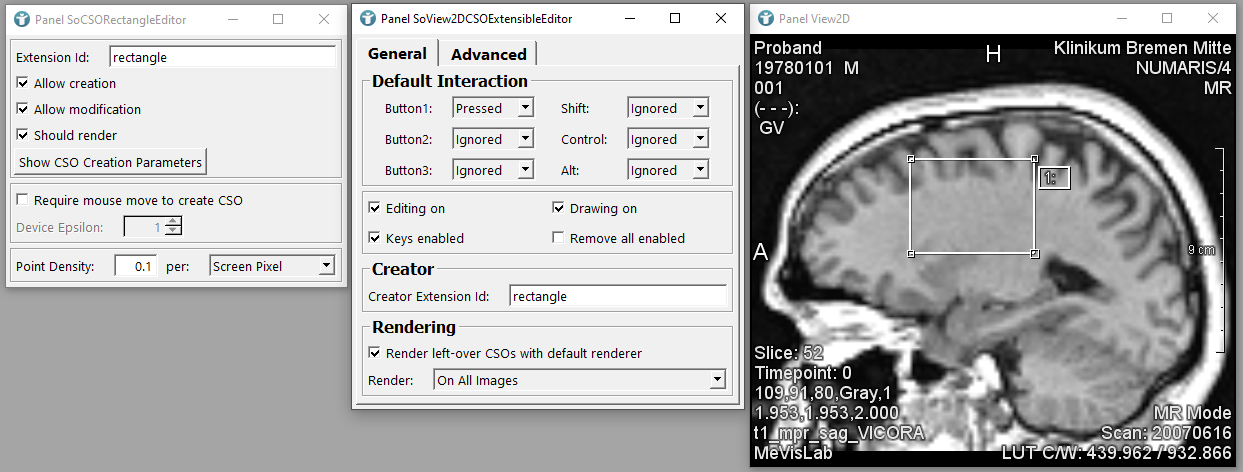
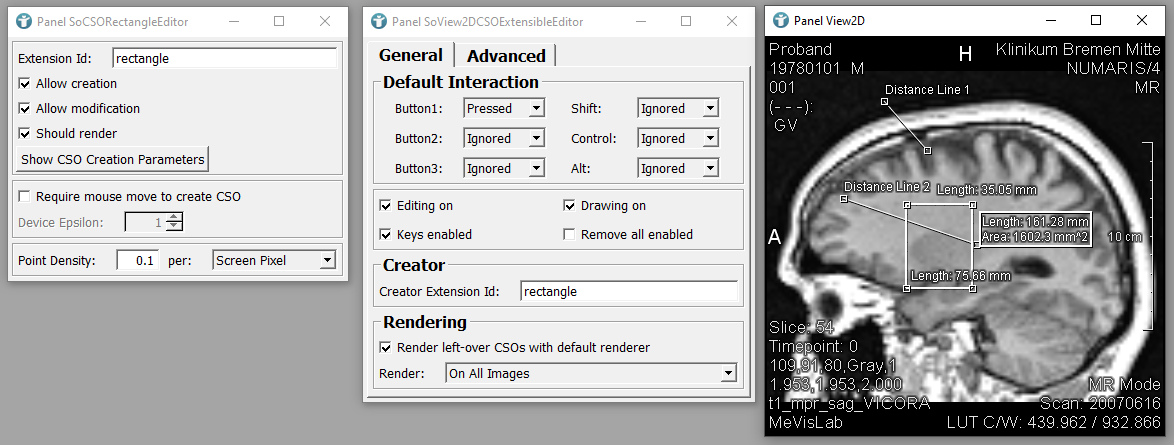
Added new tutorial and new entry to tips and tricks

diff --git a/mevislab.github.io/themes/MeVisLab/layouts/partials/head.html b/mevislab.github.io/themes/MeVisLab/layouts/partials/head.html
@@ -8,11 +8,11 @@
     <meta name="theme-color" content="#1A94D2" />
 
     <base href="{{ .Site.BaseURL }}">
-    
-    {{ $options := (dict "targetPath" "css/styles.css" "outputStyle" "compressed") }}
 
-    {{ $style := resources.Get "sass/main.scss" | toCSS  $options | minify }}
-    <link rel="stylesheet" href="{{ $style.RelPermalink }}" media="screen">
+    {{ $opts := dict "transpiler" "libsass" "targetPath" "examples/css/style.css" "outputStyle" "compressed" }}
+    {{ with resources.Get "sass/main.scss" | toCSS $opts | minify | fingerprint }}
+    <link rel="stylesheet" href="{{ .Permalink }}" integrity="{{ .Data.Integrity }}" crossorigin="anonymous">
+    {{ end }}
  
     <!-- 
         include a favicon for your site if you have it, else omit the line below 

diff --git a/mevislab.github.io/themes/MeVisLab/layouts/partials/footer.html b/mevislab.github.io/themes/MeVisLab/layouts/partials/footer.html
@@ -9,7 +9,7 @@
   {{ $bootstrap := resources.Get "js/bootstrap.bundle.min.js" }}
   {{ $js := slice $bootstrap | resources.Concat "js/bundle.js" | resources.Minify }}
 
-  <script src="{{$js.RelPermalink}}" defer></script>
+  <script src="{{$js.Permalink}}" defer></script>
   <script>
       hljs.highlightAll();
       

diff --git a/mevislab.github.io/content/tutorials/dataobjects/contours/contourexample6.md b/mevislab.github.io/content/tutorials/dataobjects/contours/contourexample6.md
@@ -16,112 +16,216 @@ menu:
 
 ## Introduction
 
-In this example, we like to add a label to a contour. The label provides information about measurements and about the contour itself. The label remains connected to the contour and can be moved via mouse interactions.
+In this example, we are adding a label to a contour. The label provides information about measurements and about the contour itself. The label remains connected to the contour and can be moved via mouse interactions.
 
 ## Steps to do
 ### Develop your network
 
-Add the following modules to your workspace and connect them as shown. Load the example DICOM image *ProbandT1.dcm*.
+Add a `LocalImage` and a `View2D` module to your workspace and connect them as shown below. Load the file *ProbandT1.dcm* from MeVisLab demo data. In order to create contours (CSOs), we need a `SoView2DCSOExtensibleEditor` module. It manages attached CSO editors, renderers and offers an optional default renderer for all types of CSOs.
 
-![Data Objects Contours Example 6](/images/tutorials/dataobjects/contours/Ex6_1.png "Data Objects Contours Example 6")
+The first CSO we want to create is a distance line. Add a `SoCSODistanceLineEditor` to the `SoView2DCSOExtensibleEditor`. It renders and interactively generates CSOs that consist of a single line segment. The line segment can be rendered as an arrow; it can be used to measure distances.
 
-The `SoView2DCSOExtensibleEditor` manages attached CSO editors and renderers and offers an optional default renderer for all types of CSOs.
+We are going to add some more editors later. In order to have the same look and feel for all types of CSOs, add a `SoCSOVisualizationSettings` module as seen below. The module is used to adjust visual parameters like color and line style for CSOs. Also add a `CSOManager` module to organize CSOs and CSOGroups within a network.
 
-The `SoCSODistanceLineEditor` renders and interactively generates CSOs that consist of a single line segment. The line segment can be rendered as an arrow; it can be used to measure distances.
+![Initial Network](/images/tutorials/dataobjects/contours/Ex6_1.png "Initial Network")
 
-The `SoCSOVisualizationSettings` module is used to adjust visual parameters like color and line style for CSOs, while the `CSOManager` module organizes CSOs and CSOGroups within a network.
+We are now able to create lines in the `View2D`. You can also modify the lines by dragging the seed points to a different location.
 
-By using these modules, we can effectively work with CSOs in our workspace, allowing us to draw single lines, for example, to measure distances on images.
+![SoCSODistanceLineEditor](/images/tutorials/dataobjects/contours/Ex6_2.png "SoCSODistanceLineEditor")
 
-![DistanceLine](/images/tutorials/dataobjects/contours/Ex6_2.png "DistanceLine")
+The created lines do neither provide any details about the length of your measurement, nor a unique ID to identify it in case of multiple CSOs.
 
-Next, we want to add a label to the distance line showing the distance between the two points of our measurement. To achieve this, we'll use the `CSOLabelRenderer` module. Begin by adding a `SoGroup` and connecting both the `CSOLabelRenderer` and the `SoCSODistanceLineEditor` to the `SoGroup`. After moving the label with mouse, the *name* will appear above the line as illustrated below. 
-
-Adding the CSOLabelRenderer, the ID of the CSO is shown next to the measurement for all previously created CSOs. All newly created CSOs will also show the ID
+Add a `CSOLabelRenderer` module to your network and connect it to a `SoGroup`. Also connect your `SoCSODistanceLineEditor` to the `SoGroup` as seen below. The *ID* of each CSO appears next to your distance lines. Moving the ID also shows the *name* of the contour.
 
 ![CSOLabelRenderer](/images/tutorials/dataobjects/contours/Ex6_14.png "CSOLabelRenderer")
 
-The `CSOLabelRenderer` module is responsible for rendering labels for CSOs in the medical imaging context. These labels can be configured using Python scripting.
+We now want to customize the details to be shown for each distance line. Open the panel of the `CSOLabelRenderer`. You can see the two parameters *labelString* and *labelName*. The *labelString* is set to the *ID* of the CSO. The *labelName* is set to a static text and the *label* property of the CSO. The label can be defined in the module `CSOManager`. You can do this, but we are not defining a name for each contour in this example.
 
-To ensure synchronization between modules and specify the active editor for creating *distanceLine* CSOs, we need to set the same *Extension Id* in both the `SoCSODistanceLineEditor` and `SoView2DCSOExtensibleEditor` modules. In the `SoView2DCSOExtensibleEditor` module, navigate to the *General* tab and locate the *Creator Extension Id* field. Here, input the same *Extension Id* used in the `SoCSODistanceLineEditor` module. This ensures proper coordination and enables the creation of new *distanceline* CSOs using the designated editor.
-
-![Setting Extension Id in SoView2DCSOExtensibleEditor](/images/tutorials/dataobjects/contours/Example6_5.png "Setting Extension Id in SoView2DCSOExtensibleEditor")
-
-When connected to a `SoView2DCSOExtensibleEditor`, the `CSOLabelRenderer` module allows access to the currently rendered CSO. Python scripting is used to configure the labels and to define the properties of the label displayed for each CSO in the viewer. *labelString* is set to the unique ID of each CSO, while *labelName* combines the word *name* with the label assigned to the CSO. *deviceOffsetX* and *deviceOffsetY* determine the label's position relative to the CSO, both set to 0 for direct overlay. The labeling displaying the number 1 represent a default label because no specific name is provided for the CSO.
-
-Replace the default *Label Code* with the following script:
-
-{{< highlight filename="" >}}
+Enter the following to the panel of the `CSOLabelRenderer` module:
+{{< highlight filename="CSOLabelRenderer" >}}
 ```Python
-if cso.getSubType() == 'distanceLine':
-    labelString = 'Length: ' + str(cso.getLength())
-    labelName = 'Distance '
-else:
-    labelString = ''
-    labelName = ''
+labelString = 'Length: ' + str(cso.getLength())
+labelName = 'Distance: '
 labelName += str(cso.getId())
-labelCaption = labelName + ":  "
-
+deviceOffsetX = 0
+deviceOffsetY = 0
 ```
 {{</highlight>}}
 
-This script will ensure that the label displays the length of the line for *distanceLine* CSOs and remains empty for other CSO types.
+We are setting the *labelName* to a static text showing the type of the CSO and the unique *ID* of the contour. We also define the *labelString* to the static description of the measurement and the *length* parameter of the CSO.
 
-![Labeled DistanceLine in View2D](/images/tutorials/dataobjects/contours/Ex6_11.png "Labeled DistanceLine in View2D")
+![labelString and labelName](/images/tutorials/dataobjects/contours/Example6_5.png "labelString and labelName")
 
-In the `CSOLabelRenderer` panel, head to the *Options* tab. Here, you can fine-tune various settings to enhance the appearance of CSO labels. Set the *Label Border Margin X* to *5* to create a margin around selected CSOs. Increase the *Font Size* to *15* for larger and more readable text. Additionally, adjust the *Min Connecting Line Length* to *15* to specify a minimum distance for drawing connecting lines, maintaining a clean and organized layout. 
+You can also round the length by using:
+{{< highlight filename="CSOLabelRenderer" >}}
+```Python
+labelString = 'Length: ' + str(round(cso.getLength(), 2)) + ' mm'
+```
+{{</highlight>}}
 
-![CSOLabelRendering Options](/images/tutorials/dataobjects/contours/Ex6_6.png "CSOLabelRendering Options")
+In order to see all possible parameters of a CSO, add a `CSOInfo` module to your network and connect it to the `CSOManager`. The geometric informations of the selected CSO from `CSOManager` can be seen there.
 
-Now, let's proceed with another type of CSO and follow similar steps. Add the `SoCSORectangleEditor` module to your workspace and connect it to the `SoGroup` module.
+![CSOInfo](/images/tutorials/dataobjects/contours/Ex6_CSOInfo.png "CSOInfo")
 
-![SoCSORectangleEditor](/images/tutorials/dataobjects/contours/Ex6_7.png "SoCSORectangleEditor")
+For labels shown on greyscale images, it makes sense to add a shadow to your labels. Open the panel of the `SoCSOVisualizationSettings` module and on tab *Misc* check option *Should render shadow*. This increases readability of your labels.
 
-Ensure to update the *Creator Extension Id* field in the `SoView2DCSOExtensibleEditor` module with the *Extension Id* of the `SoCSORectangleEditor` module.
+{{< imagegallery 2 "/images/tutorials/dataobjects/contours/" "Ex6_NoShadow" "Ex6_Shadow" >}}
+
+If you want to define your static text as a parameter in multiple labels, you can open the panel of the `CSOLabelRenderer` module and define text as User Data. The values can then be used in Python via *userData*.
+
+![User Data](/images/tutorials/dataobjects/contours/Ex6_Parameters.png "User Data")
+
+You can also add multiple CSO editors to see the different options. Add the `SoCSORectangleEditor` module to your workspace and connect it to the `SoGroup` module. As we now have two different editors, we need to tell the `CSOLabelRenderer` which CSO to be rendered how. Open the panel of the `SoCSODistanceLineEditor`. You can see the field *Extension Id* set to *distanceLine*. Open the panel of the `SoCSORectangleEditor`. You can see the field *Extension Id* set to *rectangle*.
+
+![Extension ID](/images/tutorials/dataobjects/contours/Ex6_ExtensionID.png "Extension ID")
+
+We currently defined the *labelName* and *labelString* for the distance line. If we want to define different labels for different types of CSOs, we have to change the `CSOLabelRenderer` Python script. Open the panel of the `CSOLabelRenderer` and change the Python code to the following:
+
+{{< highlight filename="CSOLabelRenderer" >}}
+```Python
+if cso.getSubType() == 'distanceLine':
+  labelString = userData0 + str(round(cso.getLength(), 2)) + ' mm'
+  labelName = userData1
+  labelName += str(cso.getId())
+elif cso.getSubType() == 'rectangle':
+  labelString = userData0 + str(round(cso.getLength(), 2)) + ' mm\n'
+  labelString += userData2 + str(round(cso.getArea(), 2)) + ' mm^2'
+  labelName = userData3
+  labelName += str(cso.getId())
+deviceOffsetX = 0
+deviceOffsetY = 0
+```
+{{</highlight>}}
+
+![SoCSORectangleEditor](/images/tutorials/dataobjects/contours/Ex6_LineAndRectangle.png "SoCSORectangleEditor")
+
+If you now draw new CSOs, you will notice that you still always create distance lines. Open the panel of the `SoView2DCSOExtensibleEditor`. You can see that the *Creator Extension Id* is set to *__default*. By default, the first found eligible editor is used to create a new CSO. In our case this is the `SoCSODistanceLineEditor`.
+
+![SoCSORectangleEditor](/images/tutorials/dataobjects/contours/Ex6_DefaultExtension.png "SoCSORectangleEditor")
+
+Change *Creator Extension Id* to *rectangle*.
 
 ![SoCSORectangleEditor & SoView2DCSOExtensibleEditor ](/images/tutorials/dataobjects/contours/Ex6_8.png "SoCSORectangleEditor & SoView2DCSOExtensibleEditor")
 
-Open the `CSOLabelRenderer` panel and add similar script as for the *distanceLine* subtype, but include *Area* calculation as well, since we are dealing with a rectangle.
-
-{{< highlight filename="" >}}
-```Python
-...
-elif cso.getSubType() == 'rectangle':
-    labelString = str('Length: ') + str(cso.getLength()) + '\n'
-    labelString += str('Area: ') + str(cso.getArea()) + '\n'
-    labelName = 'Rectangle '
-...
-```
-{{</highlight>}}
+Newly created CSOs are now rectangles. The label values are shown as defined in the `CSOLabelRenderer` and show the length and the area of the rectangle.
 
 ![Labeled Rectangle in View2D](/images/tutorials/dataobjects/contours/Ex6_9.png "Labeled Rectangle in View2D")
 
 {{<alert class="info" caption="Extra Infos">}}
-
 The *Length* attribute in the context of rectangles represents the perimeter of the rectangle, calculated as *2a + 2b*, where *a* and *b* are the lengths of the two sides of the rectangle.
-
 {{</alert>}}
 
-Connect the `CSOInfo` module to the `CSOManager` module in your network. Then, navigate to the *Geometry* tab to access detailed information about the width (*PCA X EXT*) and height (*PCA Y EXT*) of the rectangles. 
+You will find a lot more information in the `CSOInfo` module for your rectangles. The exact meaning of the values for each type of CSO is explained in the table below.
 
 ![CSOInfo](/images/tutorials/dataobjects/contours/Ex6_10.png "CSOInfo")
 
-
-To define label placement, connect a `CSOLabelPlacementLocal` module to your `CSOLaberRenderer`. This offers three positioning options: *Seed Point*, where labels align with the right-most seed point; *Path Point*, aligning with the right-most path point; or *Seed or Path Point*, which considers both for optimal placement. 
-
-![CSOLabelPlacementLocal](/images/tutorials/dataobjects/contours/Ex6_13.png "CSOLabelPlacementLocal")
-
-{{<alert class="info" caption="Extra Infos">}}
-
-When working with an ellipse, the *length* means the perimeter around its curved edge, not its width or height. Unlike a rectangle, an ellipse doesn't have sharp corners, so its *length* is the total distance around its outer curve. You calculate it by adding twice the length of its longer side (called the major axis, represented by *a*) and twice the length of its shorter side (called the minor axis, represented by *b*), often denoted as *2πa + 2πb*. 
-
-{{</alert>}}
+## Parameters and meanings for all CSO types
+<table class="table table-striped">
+  <thead>
+    <tr>
+      <th>CSO Editor</th>
+      <th>PCA X Ext.</th>
+      <th>PCA Y Ext.</th>
+      <th>PCA Z Ext.</th>
+      <th>Length</th>
+      <th>Area</th>
+    </tr>
+  </thead>
+  <tbody>
+    <tr>
+      <td>SoCSOPointEditor</td>
+      <td>n.a.</td>
+      <td>n.a.</td>
+      <td>n.a.</td>
+      <td>n.a.</td>
+      <td>n.a.</td>
+    </tr>
+    <tr>
+      <td>SoCSOAngleEditor</td>
+      <td></td>
+      <td></td>
+      <td></td>
+      <td></td>
+      <td></td>
+    </tr>
+    <tr>
+      <td>SoCSOArrowEditor</td>
+      <td></td>
+      <td></td>
+      <td></td>
+      <td></td>
+      <td></td>
+    </tr>
+    <tr>
+      <td>SoCSODistanceLineEditor</td>
+      <td></td>
+      <td></td>
+      <td></td>
+      <td>Length (in mm)</td>
+      <td></td>
+    </tr>
+    <tr>
+      <td>SoCSODistancePolylineEditor</td>
+      <td></td>
+      <td></td>
+      <td></td>
+      <td>Length of all lines (in mm)</td>
+      <td></td>
+    </tr>
+    <tr>
+      <td>SoCSOEllipseEditor</td>
+      <td></td>
+      <td></td>
+      <td></td>
+      <td>Perimeter (in mm)</td>
+      <td>Area (in mm2)</td>
+    </tr>
+    <tr>
+      <td>SoCSORectangleEditor</td>
+      <td></td>
+      <td></td>
+      <td></td>
+      <td>Length of all sides (in mm)</td>
+      <td>Area (in mm2)</td>
+    </tr>
+    <tr>
+      <td>SoCSOSplineEditor</td>
+      <td></td>
+      <td></td>
+      <td></td>
+      <td></td>
+      <td></td>
+    </tr>
+    <tr>
+      <td>SoCSOPolygonEditor</td>
+      <td></td>
+      <td></td>
+      <td></td>
+      <td>Length of all lines (in mm)</td>
+      <td></td>
+    </tr>
+    <tr>
+      <td>SoCSOIsoEditor</td>
+      <td></td>
+      <td></td>
+      <td></td>
+      <td></td>
+      <td></td>
+    </tr>
+    <tr>
+      <td>SoCSOLiveWireEditor</td>
+      <td></td>
+      <td></td>
+      <td></td>
+      <td></td>
+      <td></td>
+    </tr>
+  </tbody>
+</table>
 
 ## Summary
-* Labels can be added to contours using the `CSOLabelRenderer` module. 
+* Custom labels can be added to contours using the `CSOLabelRenderer` module. 
 * Python scripting is used within the `CSOLabelRenderer` module to customize label content based on CSO types.
-* Visiual properties can be adjusted within the `CSOLabelRenderer` and the `SoCSOVisualizationSettings` modules to improve label visibility and appearance. 
-* `SoView2DCSOExtensibleEditor` and `SoCSODistanceLineEditor` are interduced for managing and interacting with CSOs. 
-* Label placement strategies for CSOs can be defined using the `CSOLabelPlacementLocal` module.
+* Visual properties can be adjusted within the `CSOLabelRenderer` and the `SoCSOVisualizationSettings` modules to improve label visibility and appearance.
 
 {{< networkfile "examples/data_objects/contours/example6/ContourExample6.mlab" >}} 

diff --git a/mevislab.github.io/content/tutorials/shorts.md b/mevislab.github.io/content/tutorials/shorts.md
@@ -21,6 +21,7 @@ This chapter shows some features and functionalities which are helpful but do no
 * [Using Snippets](/tutorials/shorts#snippets)
 * [Scripting Assistant](/tutorials/shorts#scriptingassistant)
 * [User Scripts](/tutorials/shorts#user_scripts)
+* [Show status of module in- and output](/tutorials/shorts#mlimagestate)
 
 ## Keyboard Shortcuts {#shortcuts}
 This is a collection of useful keyboard shortcuts in MeVisLab, hopefully it grows continuously.
@@ -157,3 +158,21 @@ QApplication.setPalette(palette)
 This script defines the color of the MeVisLab user interface elements. You can define other colors and more items, this is just an example of what you can do with user scripts.
 
 Switch back to the MeVisLab IDE and select the menu item {{< menuitem "Extras" "Reload Module Database (Clear Cache)">}} again. The colors of the MeVisLab IDE change as defined in our Python script. This change persists until you restart MeVisLab and can always be repeated by selecting the menu entry or the keyboard shortcut {{< keyboard "ctrl+F9" >}}.
+
+## Show status of module in- and output {#mlimagestate}
+
+Especially in large networks it is useful to see the state of the in- and output connectors of a module. By default, the module connectors do not show if data is available. Below image shows a `DicomImport` module and a `View2D` module where no data is loaded.
+
+![No status on connector](/images/tutorials/LMIMageState_Off.png "No status on connector")
+
+In MeVisLab preferences dialog, you can see a checkbox *Show ML image state*. By default, the setting is *Off*.
+
+![Show ML image state](/images/tutorials/LMIMageState.png "Show ML image state")
+
+After enabling *Show ML image state*, your network changes and the in- and output connectors appear red in case no data is available at the output.
+
+![No data on connector](/images/tutorials/LMIMageState_On_1.png "No data on connector")
+
+After loading a valid DICOM directory, the connectors providing a valid ML image appear green. The previously red outputs are beige again, showing there is data available.
+
+![No data on connector](/images/tutorials/LMIMageState_On_2.png "No data on connector")

diff --git a/mevislab.github.io/content/tutorials/summary/summary6.md b/mevislab.github.io/content/tutorials/summary/summary6.md
@@ -13,6 +13,9 @@ menu:
     parent: "summary"
 ---
 # Step 6: Refine - Update Application
+
+{{< youtube "1v_UyGs8W1g" >}}
+
 ## Introduction
 In previous step you developed an application which can be installed on your customers systems for usage. In this step we are going to integrate simple feedback into our executable and re-create the installer.
 
